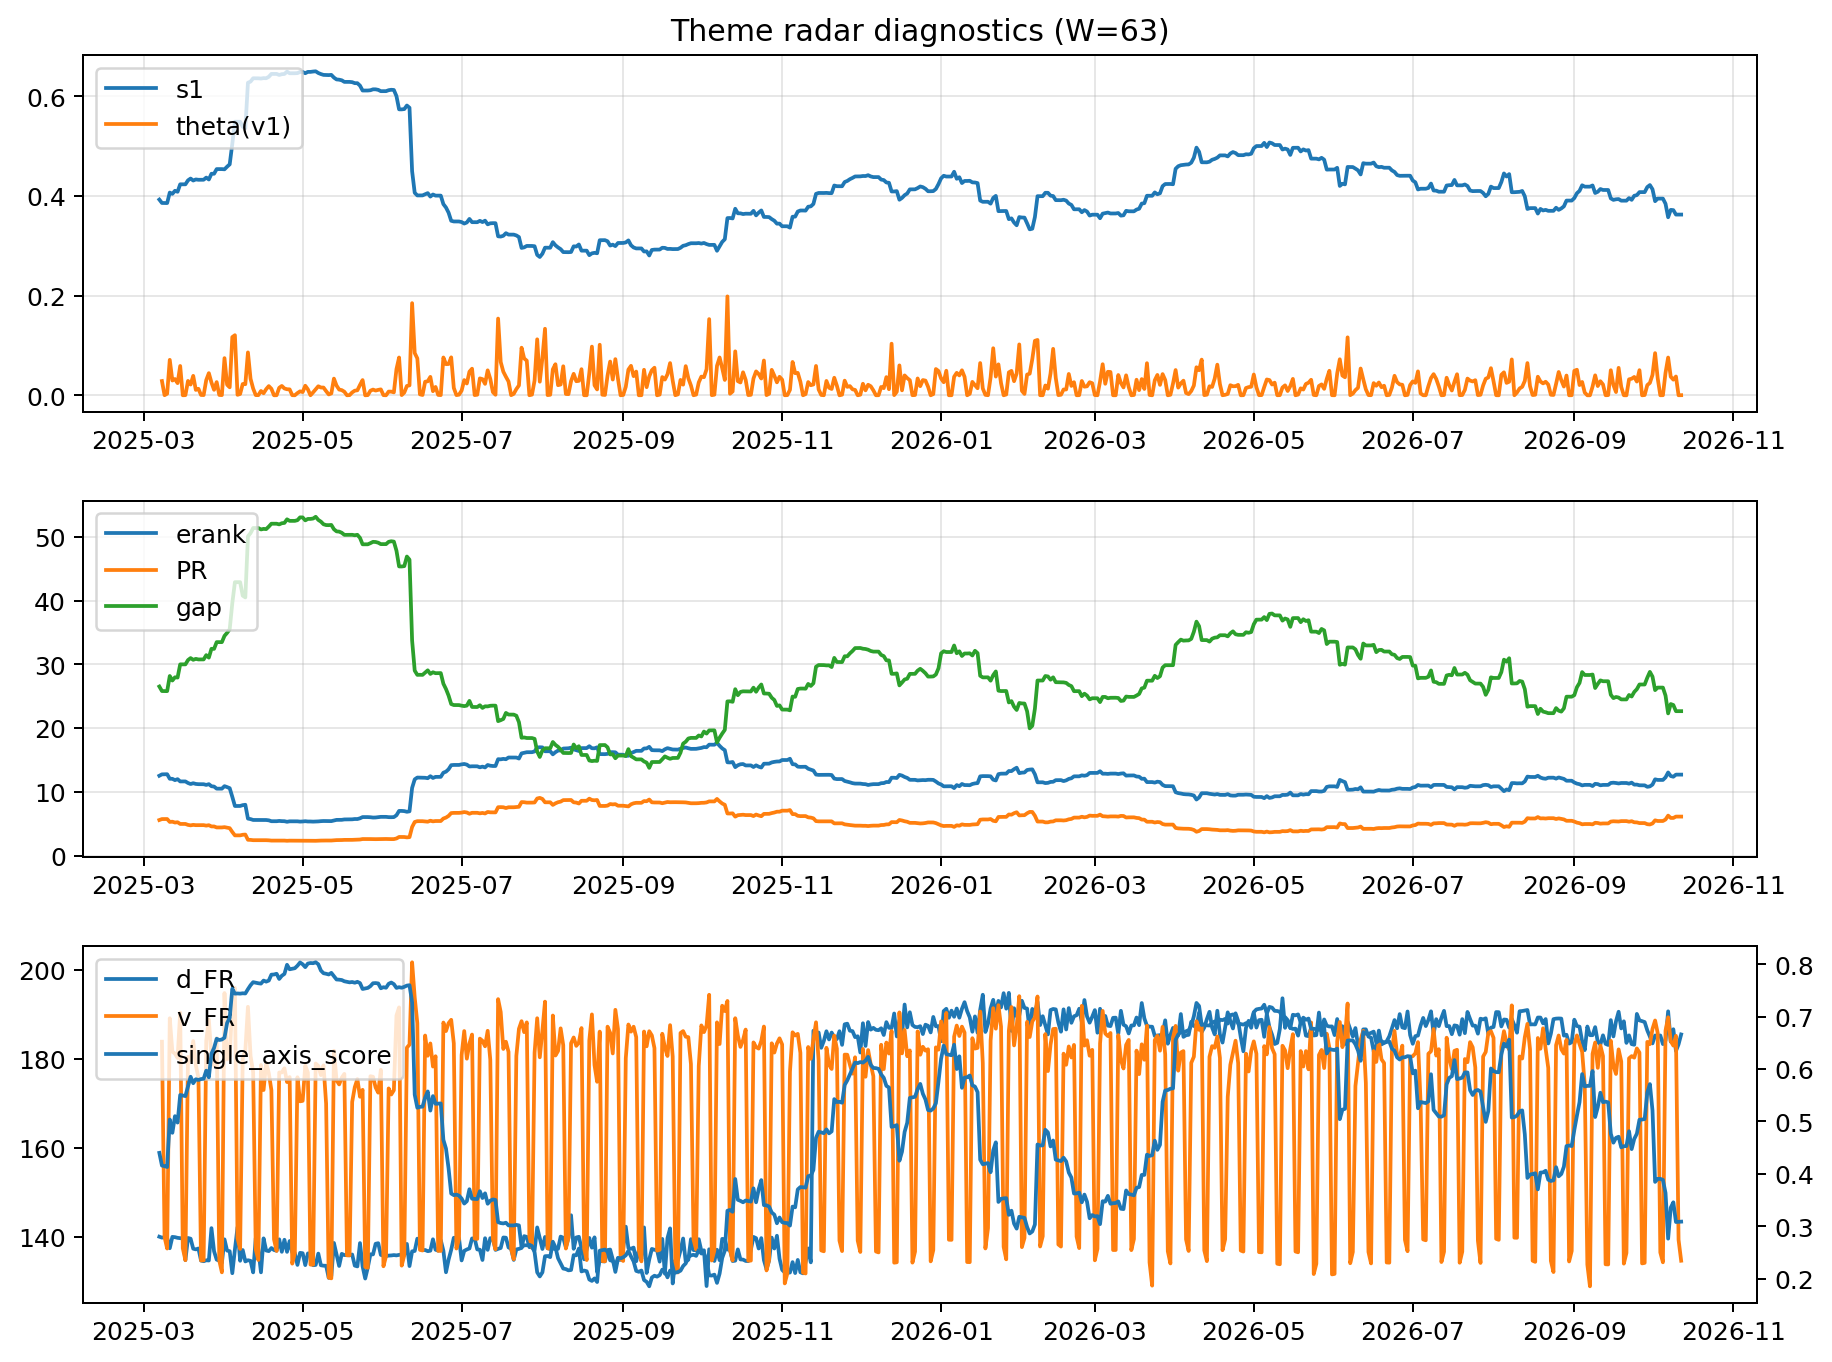
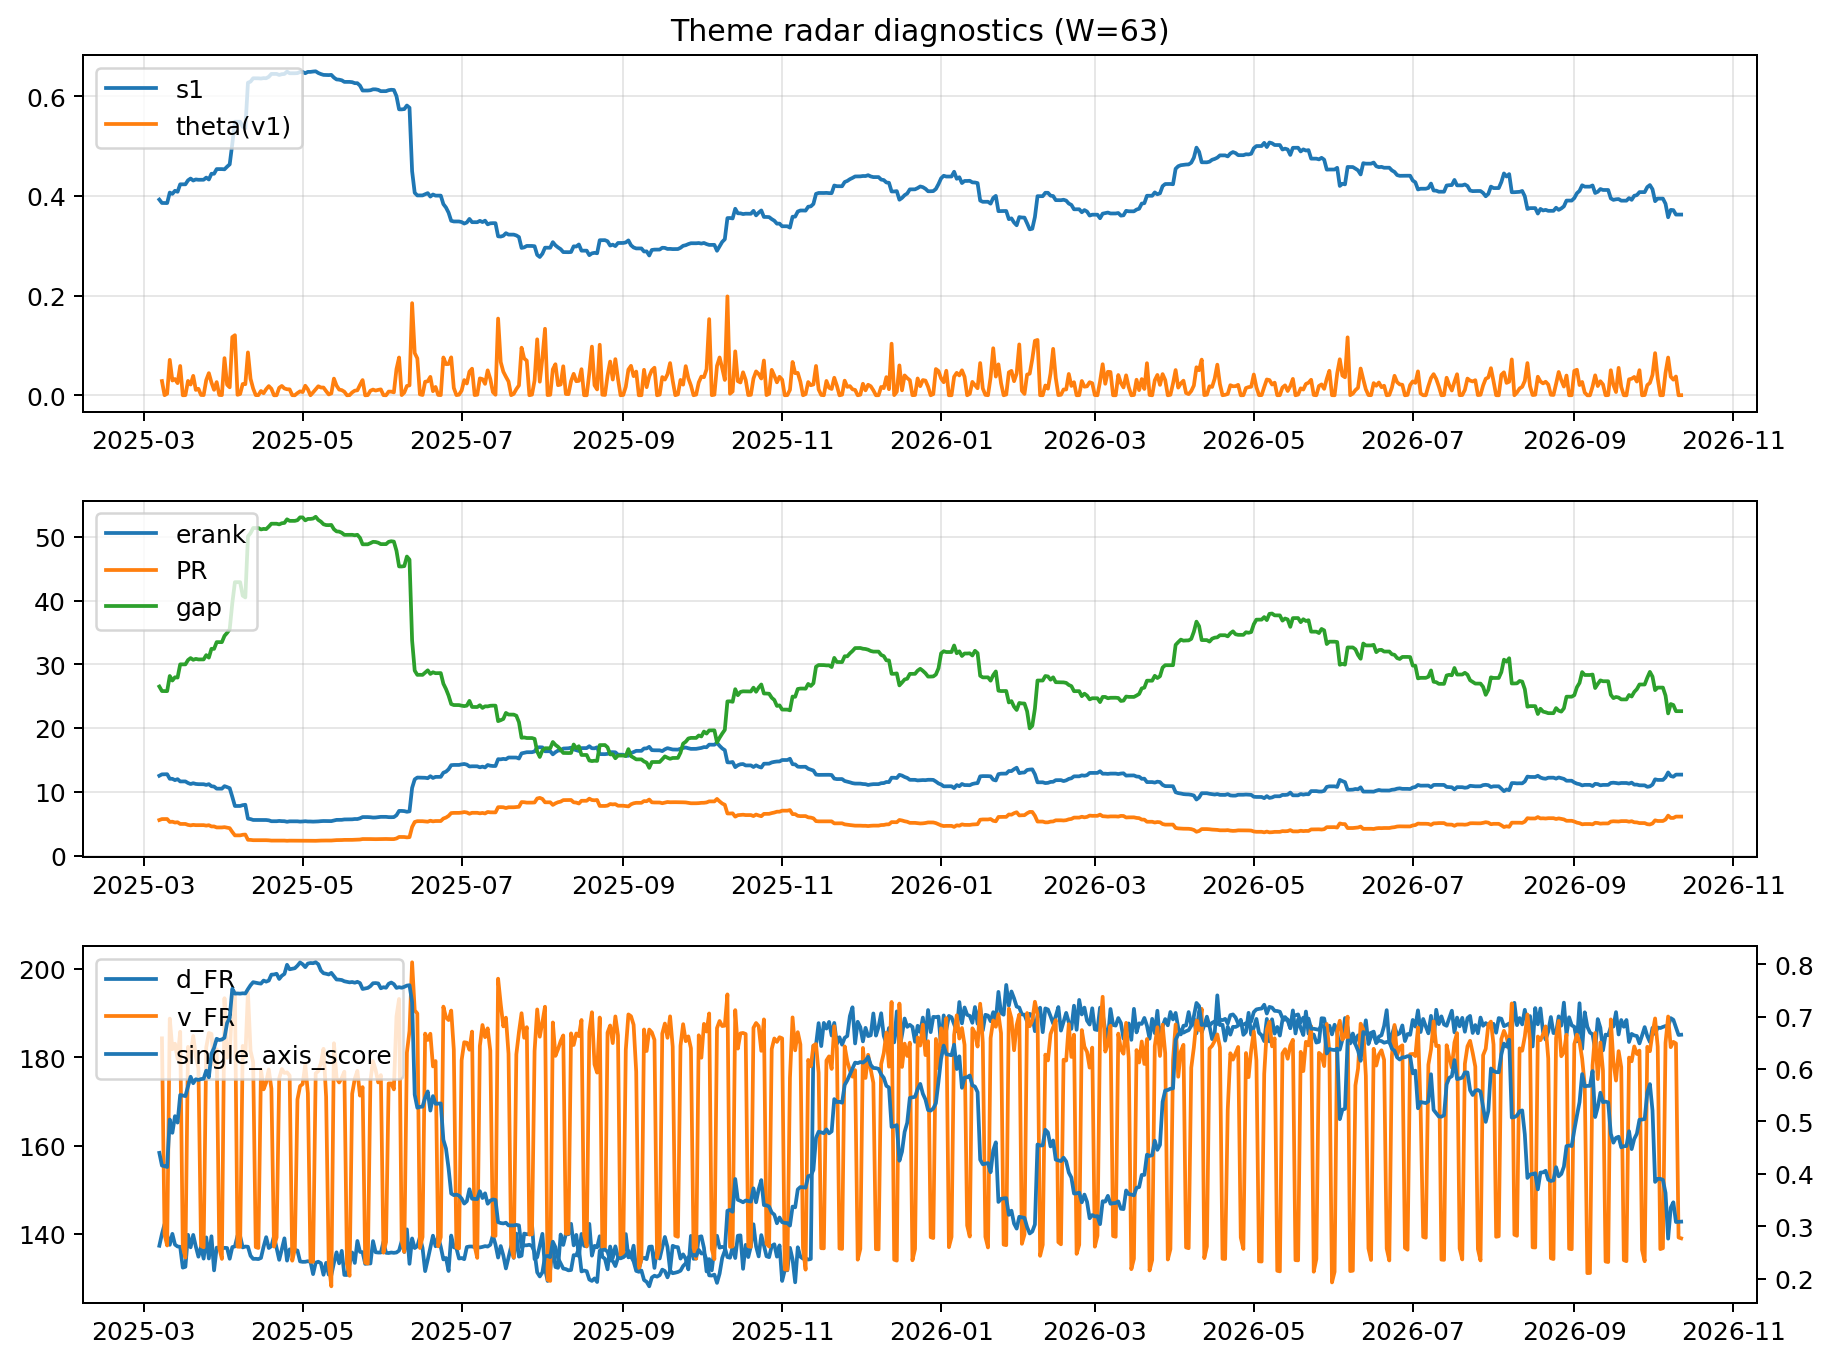
log: 2026-10-12 | sha256:5c33e56292ce8af6004e6e14cdcb3c9f02a589c6a7b2ac6353cbab32c9829230

diff --git a/logs/2026-10-12.md b/logs/2026-10-12.md
@@ -3,43 +3,43 @@
 ![diagnostic W63](../assets/diagnostic/2026-10-12_W63.png)
 
 ## Leaders (v1) — W=63
-- **Nuclear_Uranium** (0.0774419343125029)
-- Semis (0.0613842446672017)
-- Space (0.057258547888887)
+- **Nuclear_Uranium** (0.0774419364702085)
+- Semis (0.0613842486944936)
+- Space (0.0572585541914478)
 
 ## Challengers — W=63
-**v2:** Semis (0.0956358149748138), Genomics_Bio (0.0835446910972268), MegaCap_AI (0.0712795970029775)
-**v3:** Software_Cloud (0.1135395802330853), Cyber (0.0805001327117237), Metals (0.065319818583485)
+**v2:** Semis (0.0956358179207994), Genomics_Bio (0.0835445884979276), MegaCap_AI (0.0712796392772071)
+**v3:** Software_Cloud (0.1135395748986671), Cyber (0.0805001406426779), Metals (0.0653198488911943)
 
 ## Migration (20D slope) — W=63
 **Top risers:**
-- axis_DataCenter_Infra: 0.0005313231676903
-- axis_Sector_RealEstate: 0.0004713166693155
-- axis_Crypto: 0.0003850695165157
-- axis_Metals: 0.0003110647270789
-- axis_Sector_Utilities: 0.0002225895408426
-- axis_Rates: 0.0001964213672417
-- axis_Sector_ConsDisc: 0.0001961029618965
-- axis_Sector_Comm: 0.0001533276031867
-- axis_Sector_Materials: 0.0001402875999577
-- axis_Vol: 0.0001360674576957
+- axis_DataCenter_Infra: 0.0005313234661895
+- axis_Sector_RealEstate: 0.0004713168029019
+- axis_Crypto: 0.0003850698051636
+- axis_Metals: 0.0003110652063661
+- axis_Sector_Utilities: 0.0002225896185084
+- axis_Rates: 0.00019641995961
+- axis_Sector_ConsDisc: 0.0001961029912374
+- axis_Sector_Comm: 0.0001533276405822
+- axis_Sector_Materials: 0.0001402876774489
+- axis_Vol: 0.0001360675261362
 
 **Top fallers:**
-- axis_Defense: -0.0001362835672951
-- axis_Space: -0.0001859290536059
-- axis_Commodities: -0.0002004777717392
-- axis_Sector_ConsStap: -0.0002046467728341
-- axis_Cyber: -0.0002547781787289
-- axis_Genomics_Bio: -0.0003279117806719
-- axis_Nuclear_Uranium: -0.00033350266381
-- axis_Quantum: -0.0003396655934957
-- axis_Semis: -0.0003759783304227
-- axis_Drones_Autonomy: -0.0003993138692658
+- axis_Defense: -0.00013628376238
+- axis_Space: -0.0001859290120461
+- axis_Commodities: -0.0002004779134898
+- axis_Sector_ConsStap: -0.0002046468040656
+- axis_Cyber: -0.0002547781669393
+- axis_Genomics_Bio: -0.000327911323934
+- axis_Nuclear_Uranium: -0.0003335027317723
+- axis_Quantum: -0.0003396658197858
+- axis_Semis: -0.0003759778815262
+- axis_Drones_Autonomy: -0.0003993141404322
 
 ## Risk line (W=63)
-- s1: 0.3625219454574206
-- theta_v1: 0.0002291476992858
-- v_FR: 134.61787767938978
+- s1: 0.3625218690053648
+- theta_v1: 0.0002291477443444
+- v_FR: 139.0429788634903
 - single_axis_score: 0.3087179487179486
 
 ## Interpretation
@@ -48,7 +48,7 @@
 - Action: Tomorrow watchlist: DataCenter_Infra, Sector_RealEstate, Crypto, Metals, Sector_Utilities + v2_top1=Semis
 - Action: Hedge note: normal correlation stability.
 
-- Percentiles (W=63 history): vfr_pct=0.10, theta_pct=0.12, s1_pct=0.25, score_pct=0.18.
+- Percentiles (W=63 history): vfr_pct=0.23, theta_pct=0.12, s1_pct=0.25, score_pct=0.18.
 
 ---
[2 lines of base64/hex data omitted]
